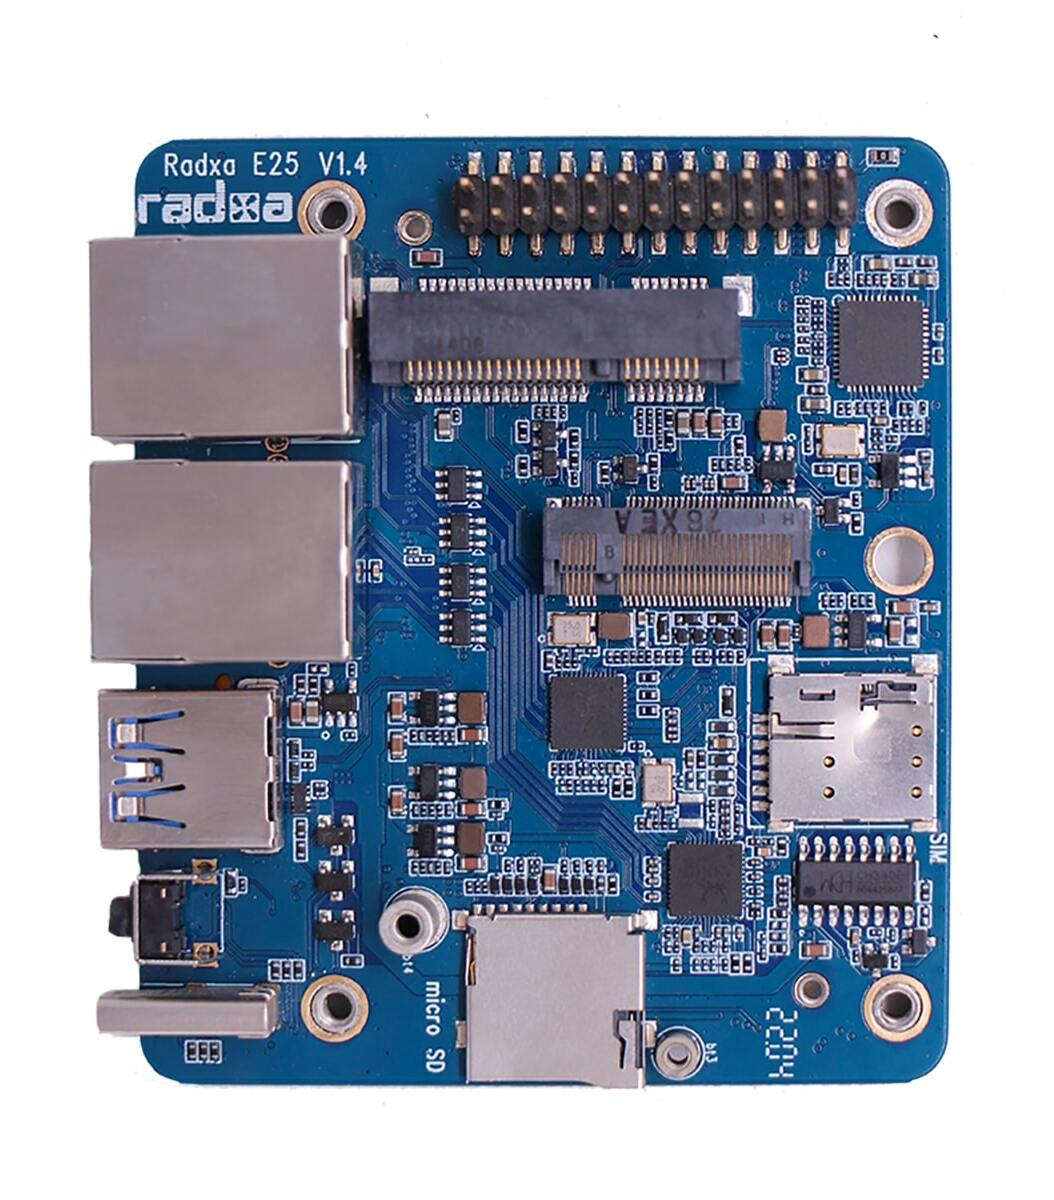
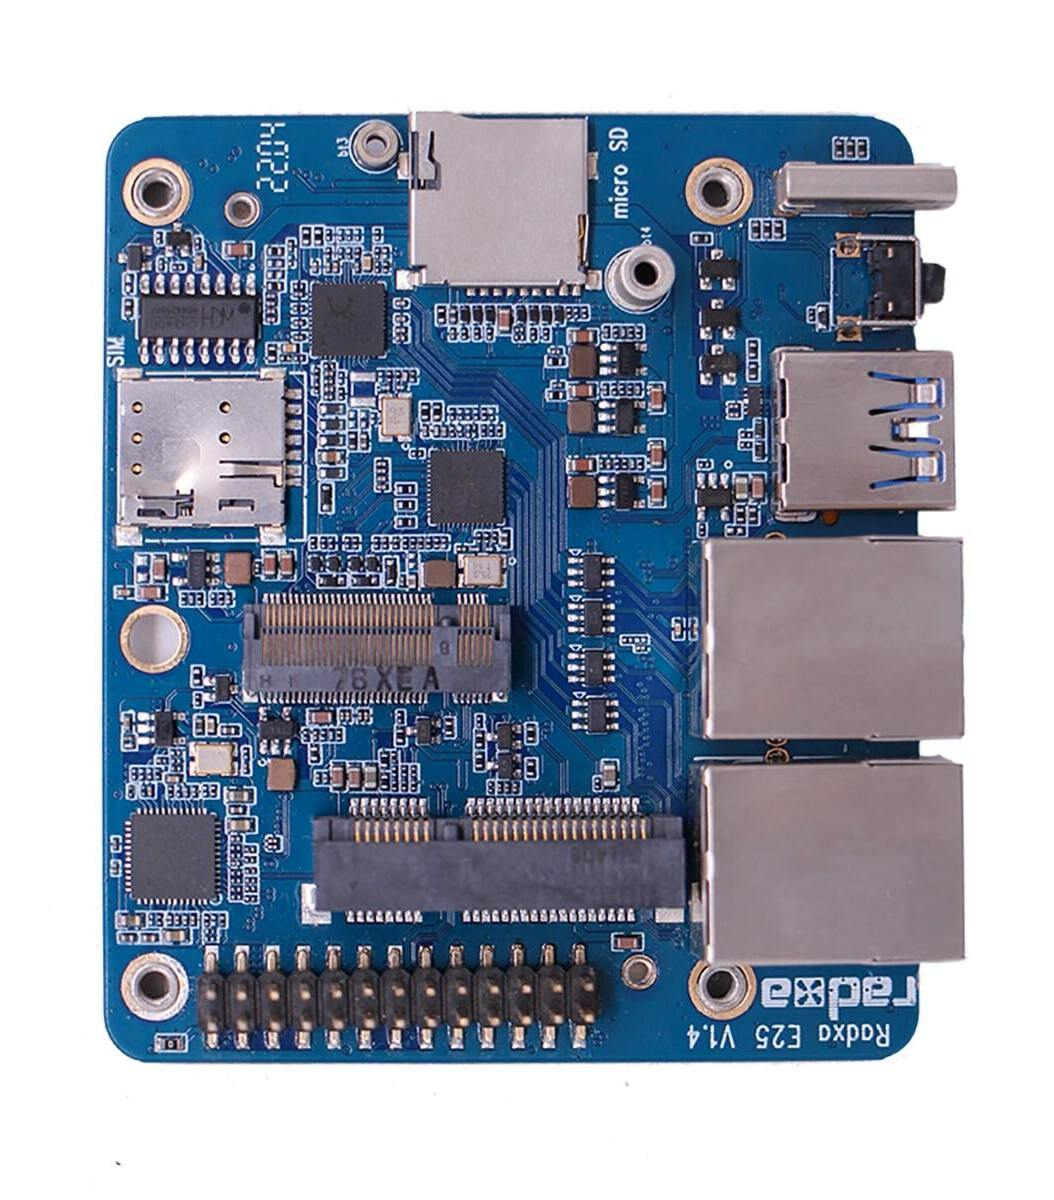
fixed info of radxa_e25 and bugs in rk356x.c

diff --git a/src/soc/rockchip/rk356x.c b/src/soc/rockchip/rk356x.c
@@ -275,10 +275,10 @@ static struct layout_t
     {"GPIO4_C5", 4, {CRU_GATE_CON31, 8}, {GRF_GPIO4C_IOMUX_H,  4}, {GPIO_SWPORT_DDR_H,  5}, {GPIO_SWPORT_DR_H,  5}, FUNCTION_DIGITAL, PINMODE_NOT_SET, 0},
     {"GPIO4_C6", 4, {CRU_GATE_CON31, 8}, {GRF_GPIO4C_IOMUX_H,  8}, {GPIO_SWPORT_DDR_H,  6}, {GPIO_SWPORT_DR_H,  6}, FUNCTION_DIGITAL, PINMODE_NOT_SET, 0},
     {"GPIO4_C7", 4, {CRU_GATE_CON31, 8}, {GRF_GPIO4C_IOMUX_H, 12}, {GPIO_SWPORT_DDR_H,  7}, {GPIO_SWPORT_DR_H,  7}, FUNCTION_DIGITAL, PINMODE_NOT_SET, 0},
-    {"GPIO4_D0", 4, {CRU_GATE_CON31, 8}, {GRF_GPIOXX_IOMUX_X,  0}, {GPIO_SWPORT_DDR_H,  8}, {GPIO_SWPORT_DR_H,  8}, FUNCTION_DIGITAL, PINMODE_NOT_SET, 0},
-    {"GPIO4_D1", 4, {CRU_GATE_CON31, 8}, {GRF_GPIOXX_IOMUX_X,  4}, {GPIO_SWPORT_DDR_H,  9}, {GPIO_SWPORT_DR_H,  9}, FUNCTION_DIGITAL, PINMODE_NOT_SET, 0},
-    {"GPIO4_D2", 4, {CRU_GATE_CON31, 8}, {GRF_GPIOXX_IOMUX_X,  8}, {GPIO_SWPORT_DDR_H, 10}, {GPIO_SWPORT_DR_H, 10}, FUNCTION_DIGITAL, PINMODE_NOT_SET, 0},
-    {"GPIO4_D3", 4, {CRU_GATE_CON31, 8}, {GRF_GPIOXX_IOMUX_X, 12}, {GPIO_SWPORT_DDR_H, 11}, {GPIO_SWPORT_DR_H, 11}, FUNCTION_DIGITAL, PINMODE_NOT_SET, 0},
+    {"GPIO4_D0", 4, {CRU_GATE_CON31, 8}, {GRF_GPIO4D_IOMUX_L,  0}, {GPIO_SWPORT_DDR_H,  8}, {GPIO_SWPORT_DR_H,  8}, FUNCTION_DIGITAL, PINMODE_NOT_SET, 0},
+    {"GPIO4_D1", 4, {CRU_GATE_CON31, 8}, {GRF_GPIO4D_IOMUX_L,  4}, {GPIO_SWPORT_DDR_H,  9}, {GPIO_SWPORT_DR_H,  9}, FUNCTION_DIGITAL, PINMODE_NOT_SET, 0},
+    {"GPIO4_D2", 4, {CRU_GATE_CON31, 8}, {GRF_GPIO4D_IOMUX_L,  8}, {GPIO_SWPORT_DDR_H, 10}, {GPIO_SWPORT_DR_H, 10}, FUNCTION_DIGITAL, PINMODE_NOT_SET, 0},
+    {"GPIO4_D3", 4, {CRU_GATE_CON31, 8}, {GRF_GPIO4D_IOMUX_L, 12}, {GPIO_SWPORT_DDR_H, 11}, {GPIO_SWPORT_DR_H, 11}, FUNCTION_DIGITAL, PINMODE_NOT_SET, 0},
     {"GPIO4_D4", 4, {CRU_GATE_CON31, 8}, {GRF_GPIOXX_IOMUX_X,  0}, {GPIO_SWPORT_DDR_H, 12}, {GPIO_SWPORT_DR_H, 12}, FUNCTION_DIGITAL, PINMODE_NOT_SET, 0},
     {"GPIO4_D5", 4, {CRU_GATE_CON31, 8}, {GRF_GPIOXX_IOMUX_X,  4}, {GPIO_SWPORT_DDR_H, 13}, {GPIO_SWPORT_DR_H, 13}, FUNCTION_DIGITAL, PINMODE_NOT_SET, 0},
     {"GPIO4_D6", 4, {CRU_GATE_CON31, 8}, {GRF_GPIOXX_IOMUX_X,  8}, {GPIO_SWPORT_DDR_H, 14}, {GPIO_SWPORT_DR_H, 14}, FUNCTION_DIGITAL, PINMODE_NOT_SET, 0},
@@ -462,9 +462,9 @@ static int rk356xPinMode(int i, enum pinmode_t mode)
 
     dir_reg = (volatile unsigned int *)(rk356x->gpio[pin->bank] + pin->direction.offset);
     if (mode == PINMODE_INPUT) {
-        REGISTER_CLEAR_BITS(dir_reg, pin->data.bit, 2);
+        REGISTER_CLEAR_BITS(dir_reg, pin->data.bit, 1);
     } else if (mode == PINMODE_OUTPUT) {
-        REGISTER_SET_HIGH(dir_reg, pin->direction.bit, 0x1);
+        REGISTER_SET_HIGH(dir_reg, pin->direction.bit, 1);
     }
     else {
         wiringXLog(LOG_ERR, "invalid pin mode %i for GPIO %i", mode, i);

diff --git a/docs/source/platforms/radxa/radxa_e25.rst b/docs/source/platforms/radxa/radxa_e25.rst
@@ -27,7 +27,7 @@ Supported Features
 GPIO Mapping
 ------------
 
-.. image:: radxa_e23.jpg
+.. image:: radxa_e25.jpg
 
 +----+----+----+----+----+---+----+---+---+----+----+----+----+
 | 5v | 5v | 0v | 15 | 16 | 1 | 0v | 4 | 5 | 0v |3.3v| 10 | 11 |

diff --git a/docs/source/platforms/radxa/index.rst b/docs/source/platforms/radxa/index.rst
@@ -10,4 +10,5 @@ Radxa
    rock3c
    radxa_cm3_io
    radxa_e23
+   radxa_e25
    rock4
